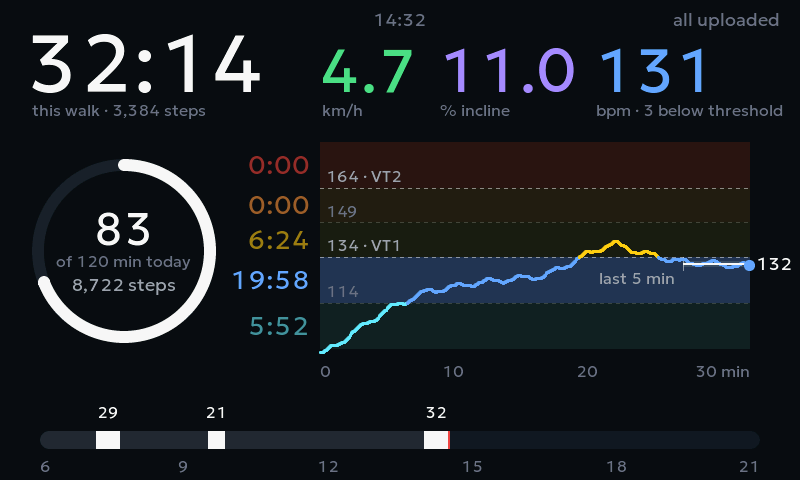
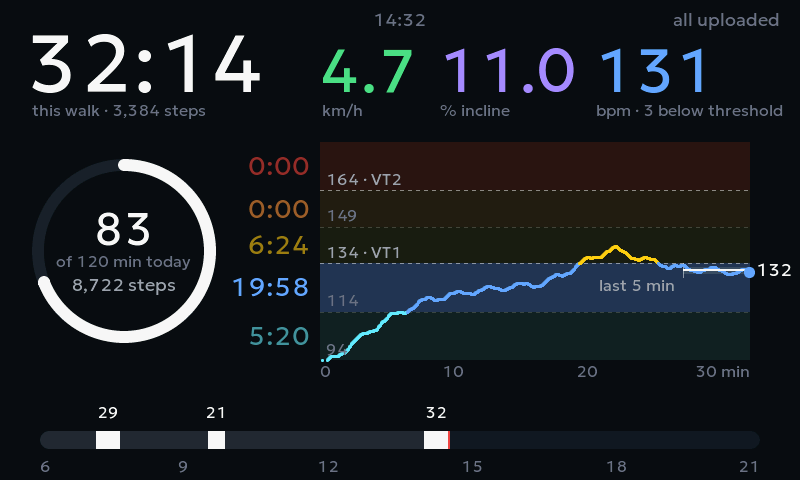
docs: re-render README screenshots with the chart's floor at zone 1
The pulse chart now spans zones 1 to 5 only; the README says so and its
four dashboard screenshots show it.

Changed region(s): [[0.2812, 0.4062, 1.0, 0.75], [0.4062, 0.3438, 0.5, 0.4062], [0.3125, 0.3125, 0.375, 0.375]]

diff --git a/README.md b/README.md
@@ -13,7 +13,7 @@ A big, glanceable second screen for your treadmill: walking time, a daily goal r
 - **This walk, in big digits.** Walking time runs only while the belt moves, with the steps under it ([estimated from the speed](docs/how-it-works.md#steps)). Speed and incline next to it.
 - **Daily goal ring.** Minutes walked today out of your goal, and today's steps. Past the goal, a second, brighter lap. Tap the ring to count in hours and minutes ("1h 23m") instead.
 - **Heart rate zones.** The pulse is colored by zone, with how far you are from the next threshold.
-- **Pulse chart of the walk** over the five zones as bands, the zone you are in now brighter, with your two thresholds named and the other zone borders dashed. Beside each band, this walk's time in that zone. Plus where your pulse sat over the last 5 minutes.
+- **Pulse chart of the walk** over the five zones as bands, the zone you are in now brighter, with your two thresholds named and the other zone borders dashed. The chart spans zones 1 to 5 only: a pulse under or over them runs as dots along the edge. Beside each band, this walk's time in that zone. Plus where your pulse sat over the last 5 minutes.
 - **Beeps** when the pulse crosses a threshold, and when the treadmill link drops mid-walk.
 - **Day strip:** when you walked today, with each walk's minutes over it.
 - **The last two weeks:** swipe sideways for a bar per day, split by pulse zone (striped where you walked without the strap), with weeks set apart, your average day in minutes and steps, the days on goal and in a row, and the average day's minutes in zones 2 to 5. The history stays on the board, so this works without the cloud; the dashboard comes back when the belt starts.
